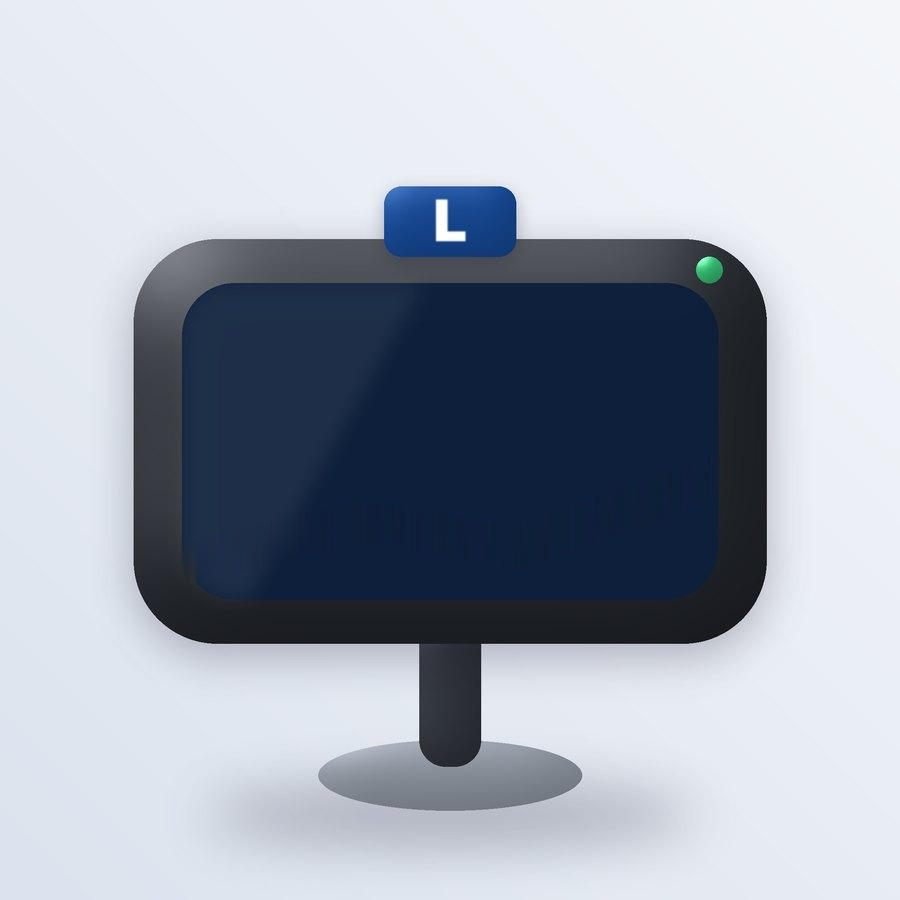
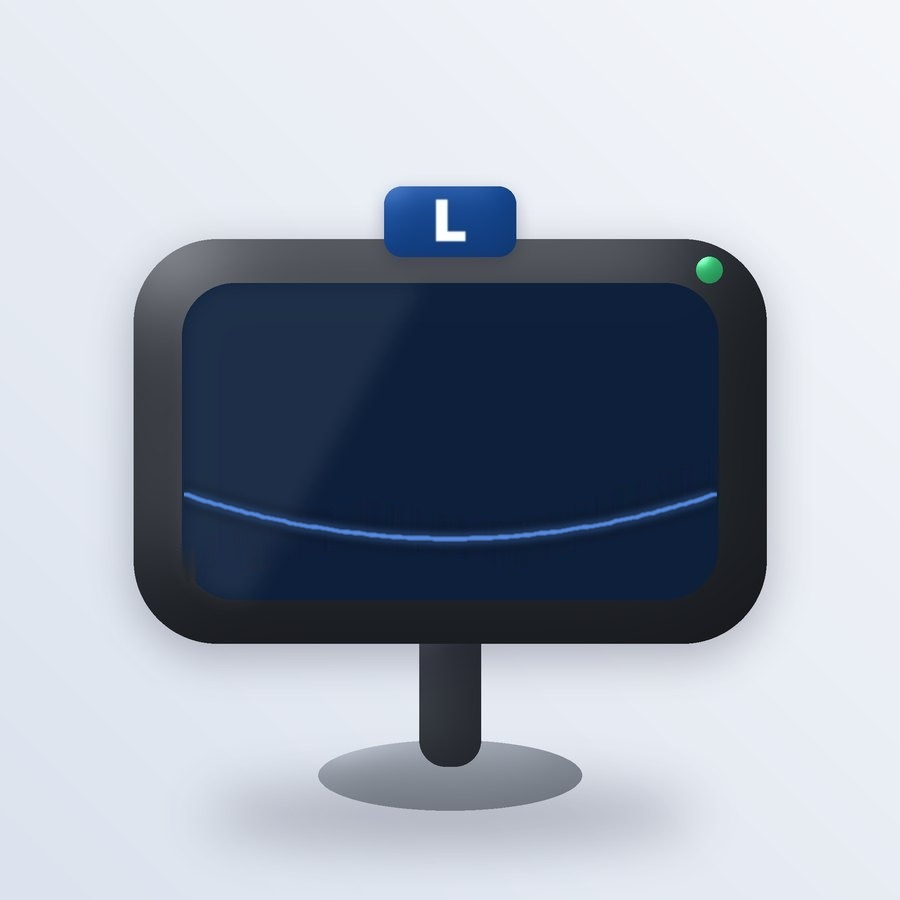
GPS: keep the road line, curved up like a smile instead of a mouth
Guillermo liked the road; only its downward slant read as sad. The route
line is back as a gentle valley curve and the drawn mouth is removed.

Claude-Session: https://claude.ai/code/session_01NvZbTaTVr1FLmnVLEVxKns

Changed region(s): [[0.2489, 0.5289, 0.8089, 0.6222], [0.1867, 0.5289, 0.2489, 0.56]]

diff --git a/androidApp/src/main/kotlin/dev/garrido/relanti/android/Components.kt b/androidApp/src/main/kotlin/dev/garrido/relanti/android/Components.kt
@@ -127,26 +127,15 @@ fun GpsFace(mood: TurboMood, modifier: Modifier = Modifier, clock: String = "") 
                     cornerRadius = CornerRadius(ew * grow / 2),
                 )
             }
-            // A small smile under the eyes: the GPS is never sad.
-            fun smile(r: Float = w * 0.075f, from: Float = 25f, sweep: Float = 130f) {
-                val c = Offset(w * 0.51f, w * 0.54f)
-                drawArc(
-                    glow, from, sweep, false,
-                    topLeft = Offset(c.x - r, c.y - r), size = Size(r * 2, r * 2),
-                    style = Stroke(width = ew * 0.42f, cap = StrokeCap.Round),
-                )
-            }
             when (mood) {
-                TurboMood.IDLE -> { eye(left, blink.value); eye(right, blink.value); smile() }
+                TurboMood.IDLE -> { eye(left, blink.value); eye(right, blink.value) }
                 TurboMood.CURIOUS -> {
                     eye(left, blink.value, w * 0.015f, -w * 0.015f)
                     eye(right, blink.value, w * 0.015f, -w * 0.02f, 1.15f)
-                    smile(w * 0.06f)
                 }
                 TurboMood.EXPLAIN -> {
                     eye(left, blink.value * 0.8f, -w * 0.02f + bob * w * 0.004f)
                     eye(right, blink.value * 0.8f, -w * 0.02f + bob * w * 0.004f)
-                    smile()
                 }
                 TurboMood.HAPPY -> {
                     listOf(left, right).forEach { c ->
@@ -157,7 +146,6 @@ fun GpsFace(mood: TurboMood, modifier: Modifier = Modifier, clock: String = "") 
                             style = Stroke(width = ew * 0.45f, cap = StrokeCap.Round),
                         )
                     }
-                    smile(w * 0.09f, 15f, 150f)
                 }
                 TurboMood.RECALCULANDO -> {
                     val r = w * 0.09f

diff --git a/iosApp/Relanti/Components.swift b/iosApp/Relanti/Components.swift
@@ -64,24 +64,14 @@ struct GpsFace: View {
             ctx.fill(Path(roundedRect: rect, cornerRadius: ew * grow / 2), with: .color(Palette.glow))
         }
 
-        // A small smile under the eyes: the GPS is never sad.
-        func smile(_ r: Double = w * 0.075, from: Double = 25, to: Double = 155) {
-            var p = Path()
-            p.addArc(center: CGPoint(x: w * 0.51, y: w * 0.54), radius: r,
-                     startAngle: .degrees(from), endAngle: .degrees(to), clockwise: false)
-            ctx.stroke(p, with: .color(Palette.glow), style: StrokeStyle(lineWidth: ew * 0.42, lineCap: .round))
-        }
-
         switch mood {
         case .curious:
             eye(left, blink, dx: w * 0.015, dy: -w * 0.015)
             eye(right, blink, dx: w * 0.015, dy: -w * 0.02, grow: 1.15)
-            smile(w * 0.06)
         case .explain:
             let bob = still ? 0 : sin(t * 2.2) * w * 0.004
             eye(left, blink * 0.8, dx: -w * 0.02 + bob)
             eye(right, blink * 0.8, dx: -w * 0.02 + bob)
-            smile()
         case .happy:
             for c in [left, right] {
                 var p = Path()
@@ -89,7 +79,6 @@ struct GpsFace: View {
                          startAngle: .degrees(200), endAngle: .degrees(340), clockwise: false)
                 ctx.stroke(p, with: .color(Palette.glow), style: StrokeStyle(lineWidth: ew * 0.45, lineCap: .round))
             }
-            smile(w * 0.09, from: 15, to: 165)
         case .recalculando:
             let r = w * 0.09
             let c = CGPoint(x: w * 0.51, y: cy)
@@ -105,7 +94,6 @@ struct GpsFace: View {
         default:
             eye(left, blink)
             eye(right, blink)
-            smile()
         }
     }
 }
